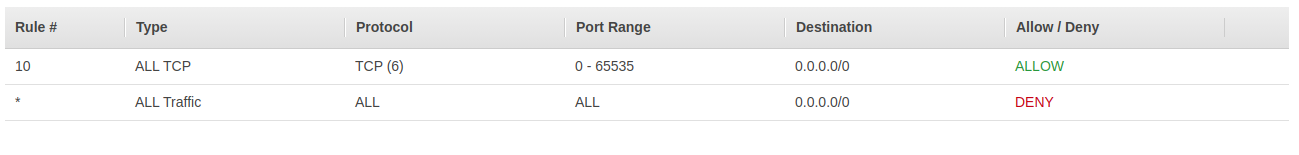
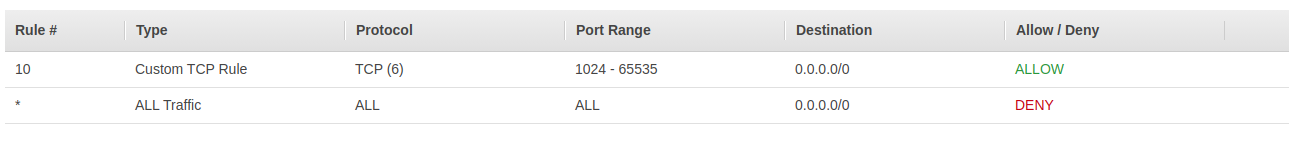
update bastion host section

diff --git a/README.md b/README.md
@@ -109,7 +109,7 @@ Traffic to port 22 from all sources should be allowed.
 
 ![List of inbound rules for NACL](inbound-nacl.png)
 
-In outbound rules, all TCP traffic to any port should be allowed.
+In outbound rules, all TCP traffic to ephemeral ports (1024-65535) should be allowed.
 
 ![List of outbound rules for NACL](outbound-nacl.png)
 
@@ -149,4 +149,13 @@ It will take a bit of time for the instance to be ready.
 Once ready, in EC2 dashboard, list your instances and connect to your bastion host by clicking *Connect*.
 You'll see instructions on how to SSH into the bastion host using the `pem` file you downloaded previously.
 If security groups and network access control lists have been configured correctly, you should be able to successfully establish an SSH session.
+
+```
+       __|  __|_  )
+       _|  (     /   Amazon Linux AMI
+      ___|\___|___|
+
+https://aws.amazon.com/amazon-linux-ami/2018.03-release-notes/
+```
+
 If the connection hangs, it could be that there's an issue with NACLs or security groups.
